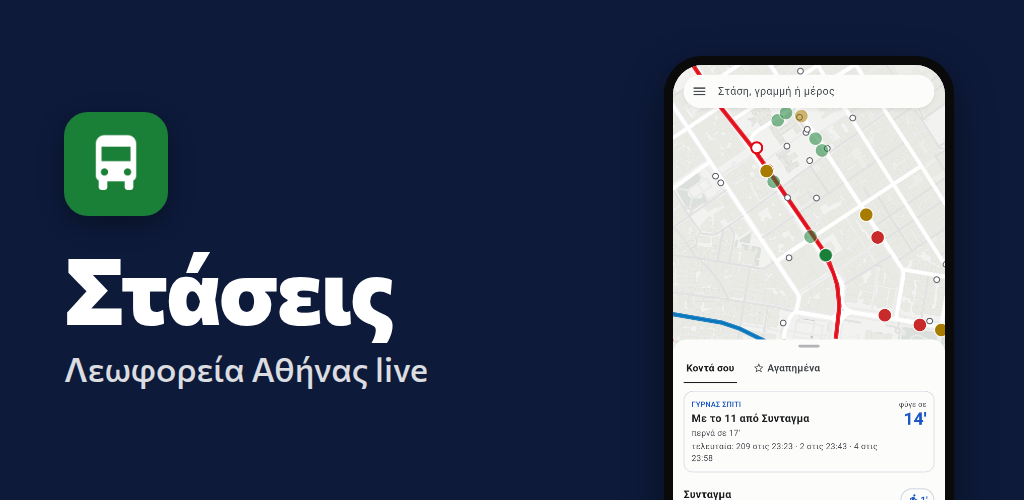
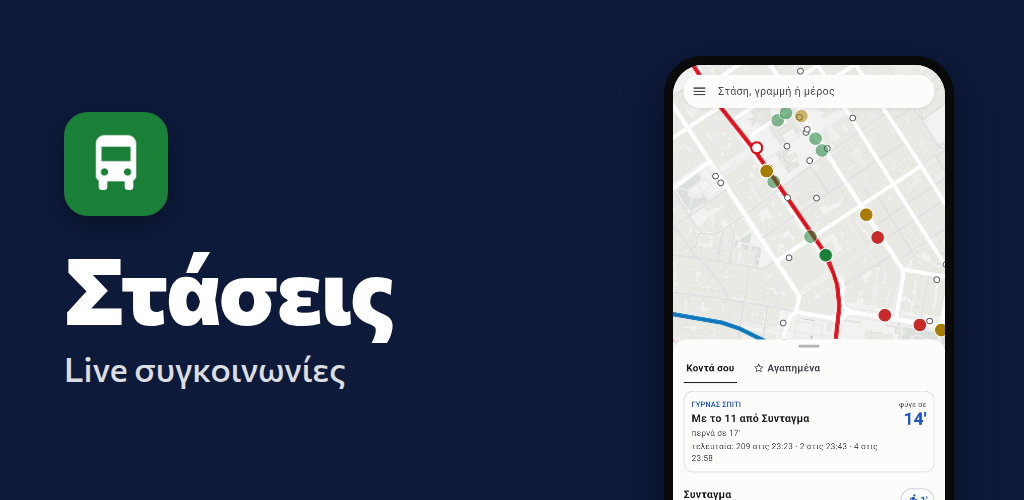
Store: new name «Στάσεις: Live Συγκοινωνίες», video link, SUBMISSION.md with full GitHub links

Changed region(s): [[0.0625, 0.72, 0.4375, 0.78]]

diff --git a/docs/store/graphics/feature.html b/docs/store/graphics/feature.html
@@ -11,5 +11,5 @@ p{font-weight:500;font-size:34px;line-height:1.2;margin-top:14px;opacity:.85}
 .phone div{width:100%;height:100%;border-radius:30px 30px 0 0;overflow:hidden;background:#fafafa}
 .phone img{width:100%;display:block}
 </style></head><body><div class="wrap">
-<img class="ic" src="icon-src.png"><h1>Στάσεις</h1><p>Λεωφορεία Αθήνας live</p>
+<img class="ic" src="icon-src.png"><h1>Στάσεις</h1><p>Live συγκοινωνίες</p>
 <div class="phone"><div><img src="home-src.png"></div></div></div></body></html>

diff --git a/docs/store/SUBMISSION.md b/docs/store/SUBMISSION.md
@@ -1,92 +1,94 @@
-# Στάσεις · Πακέτο για τα stores (για τον φίλο που ανεβάζει)
+# Στάσεις · Πακέτο για τα stores
 
-Ενημερώθηκε 2026-11-14 · έκδοση 0.3.0+9 · bundle ID / applicationId `gr.staseis.app` (και στα δύο stores)
+Ενημερώθηκε 2026-11-14 · έκδοση 0.3.0+9 · bundle ID / applicationId `gr.staseis.app` (Play και App Store)
 
-Όλα τα αρχεία είναι στο δημόσιο repo. Βάση για τα links:
-`https://github.com/angelospk/athens-transit-app/blob/main/`. Στον πίνακα το βάζω ως `repo:`.
+Αυτό είναι το κεντρικό έγγραφο. Κάθε αρχείο έχει πλήρες link GitHub, ώστε να το ανοίξει άνθρωπος ή agent.
+Αυτό το έγγραφο: https://github.com/angelospk/athens-transit-app/blob/main/docs/store/SUBMISSION.md
 
-## 1. Στοιχεία επικοινωνίας: τι να βάλεις
+## 1. Στοιχεία για τα forms
 
-Το email και το τηλέφωνο **δεν** είναι σε αυτό το δημόσιο repo. Ο Άγγελος τα στέλνει ιδιωτικά
-(αρχείο `~/staseis-store/CONTACT.md`, μαζί με το `.aab`).
-
-| Πεδίο | Τιμή | Πού |
-|---|---|---|
-| Όνομα εφαρμογής | Στάσεις | Play + App Store |
-| Website | https://staseis.gr | Play (Website), App Store (Marketing URL) |
-| Support URL | https://staseis.gr/support/ | App Store (υποχρεωτικό) |
-| Privacy policy URL | https://staseis.gr/privacy/ (200, ελέγχθηκε 2026-11-14) | Play + App Store |
-| Email επικοινωνίας | στο ιδιωτικό `CONTACT.md` (§4) | Play (Developer contact + Store listing), App Store (Review contact) |
-| Τηλέφωνο | στο ιδιωτικό `CONTACT.md` (§4) | Play (επαλήθευση λογαριασμού), App Store (Review contact, ιδιωτικό) |
-| Εκδότης / Copyright | Άγγελος Παπαμιχαήλ · © 2026 Άγγελος Παπαμιχαήλ | App Store |
-| Τιμή | Δωρεάν, χωρίς αγορές μέσα στην εφαρμογή, χωρίς διαφημίσεις | και τα δύο |
-| Χώρες | Ελλάδα (ή όλες) | και τα δύο |
+| Πεδίο | Τιμή |
+|---|---|
+| Όνομα εφαρμογής (Play και App Store) | Στάσεις: Live Συγκοινωνίες (26 χαρακτήρες) |
+| Όνομα EN | Staseis: Live Transit |
+| Εκδότης / Copyright | Άγγελος Παπαμιχαήλ · © 2026 Άγγελος Παπαμιχαήλ |
+| Website / Marketing URL | https://staseis.gr |
+| Support URL | https://staseis.gr/support/ |
+| Privacy policy URL | https://staseis.gr/privacy/ |
+| Email, τηλέφωνο | ΔΕΝ είναι στο δημόσιο repo. Βλ. §4: ιδιωτικό αρχείο `CONTACT.md` |
+| Τιμή | Δωρεάν, χωρίς αγορές μέσα στην εφαρμογή, χωρίς διαφημίσεις |
+| Χώρες | Ελλάδα (ή όλες) |
+| Πόλεις στην εφαρμογή | Αθήνα, Θεσσαλονίκη |
 
 Σημειώσεις:
 
-- **Email**: η Google δείχνει το email της σελίδας δημόσια. Προτείνω ξεχωριστή διεύθυνση στο
-  `staseis.gr` (π.χ. Cloudflare Email Routing, δωρεάν, προωθεί στο κανονικό email) αντί για προσωπικό.
+- **Email**: η Google το δείχνει δημόσια στη σελίδα της εφαρμογής. Μπορεί να είναι ξεχωριστή διεύθυνση στο
+  `staseis.gr` (Cloudflare Email Routing).
 - **Τηλέφωνο**: ζητείται για επαλήθευση και για επαφή του review. Σε δωρεάν εφαρμογή χωρίς εμπορική
-  δραστηριότητα επίλεξε **non-trader** στο EU/DSA (Play και App Store). Έτσι δεν δημοσιεύονται
-  διεύθυνση και τηλέφωνο. Έλεγξε τη δήλωση στο Console, γιατί τα πεδία αλλάζουν.
-- **Εκδότης**: ο Άγγελος Παπαμιχαήλ (όπως στην πολιτική απορρήτου). Στο store θα φαίνεται το όνομα
-  του λογαριασμού που ανεβάζει. Αν είναι του φίλου, το «Developer name» θα είναι το δικό του, και η
-  πολιτική πρέπει να το λέει.
+  δραστηριότητα επίλεξε **non-trader** (EU/DSA). Έτσι δεν δημοσιεύονται διεύθυνση και τηλέφωνο. Έλεγξε τη
+  δήλωση στο Console, γιατί τα πεδία αλλάζουν.
+- **Εκδότης**: ο Άγγελος Παπαμιχαήλ, όπως στην πολιτική απορρήτου. Αν ανεβάζει ο φίλος με δικό του λογαριασμό,
+  το «Developer name» θα είναι το δικό του, και η πολιτική πρέπει να το λέει.
 
-## 2. Κείμενα και δηλώσεις (links)
+## 2. Κείμενα και δηλώσεις
 
 | Τι | Link |
 |---|---|
-| Τίτλοι, περιγραφές, keywords, κατηγορίες (EL + EN, Play + App Store) | repo: `docs/store/listing.md` |
-| Data safety, App Privacy, foreground service, review notes, ratings | repo: `docs/store/declarations.md` |
-| Πολιτική απορρήτου (EL + EN), ίδια με τη ζωντανή | repo: `docs/store/privacy-policy.md` · live: https://staseis.gr/privacy/ |
-| iOS privacy manifest | repo: `ios/Runner/PrivacyInfo.xcprivacy` |
-| Βήματα δημοσίευσης, Shorebird | repo: `docs/store/README.md` |
+| Τίτλοι, περιγραφές, keywords, κατηγορίες (EL + EN, Play + App Store) | https://github.com/angelospk/athens-transit-app/blob/main/docs/store/listing.md |
+| Data safety, App Privacy, foreground service, review notes, ratings, λογαριασμοί | https://github.com/angelospk/athens-transit-app/blob/main/docs/store/declarations.md |
+| Πολιτική απορρήτου (EL + EN) | https://github.com/angelospk/athens-transit-app/blob/main/docs/store/privacy-policy.md · live: https://staseis.gr/privacy/ |
+| iOS privacy manifest | https://github.com/angelospk/athens-transit-app/blob/main/ios/Runner/PrivacyInfo.xcprivacy |
+| Βήματα δημοσίευσης Android και iOS, Shorebird | https://github.com/angelospk/athens-transit-app/blob/main/docs/store/README.md |
 
 Γρήγορα, χωρίς να ανοίξεις το `listing.md`:
 
-- **Play**: τίτλος «Στάσεις: Λεωφορεία Αθήνας live» · κατηγορία Maps & Navigation · tags Public transit,
-  Navigation.
-- **App Store**: όνομα «Στάσεις: Λεωφορεία Αθήνας live» · υπότιτλος «Αφίξεις live και ειδοποιήσεις» ·
-  κατηγορία Navigation, δευτερεύουσα Travel · Age rating 4+.
+- **Play**: κατηγορία Maps & Navigation · tags Public transit, Navigation.
+- **App Store**: υπότιτλος «Αφίξεις live και ειδοποιήσεις» · κατηγορία Navigation, δευτερεύουσα Travel · Age
+  rating 4+.
 - **Content rating**: IARC όλα «Όχι» → PEGI 3. **Ads**: Όχι. **Target audience**: 18+.
 - **Export compliance**: μόνο HTTPS, `ITSAppUsesNonExemptEncryption = false` (ήδη στο `Info.plist`).
 - **Review notes (App Store, αντιγραφή)**:
-  > Staseis shows live public transport in Athens, Greece. Outside Athens the map still works: pan to
-  > Athens, or use the search to open "Σύνταγμα" (Syntagma), then tap any stop to see live arrivals. No
-  > login is needed. Alerts: open a stop, tap a line, choose "Ειδοποίησέ με" (notify me). The app is
-  > unofficial and uses public data from OASA, STASY and Hellenic Train.
+  > Staseis shows live public transport in Athens and Thessaloniki, Greece. Outside Greece the map still
+  > works: pan to Athens, or use the search to open "Σύνταγμα" (Syntagma), then tap any stop to see live
+  > arrivals. No login is needed. Alerts (Athens): open a stop, tap a line, choose "Ειδοποίησέ με" (notify
+  > me). The app is unofficial and uses public data from OASA, OASTH, STASY and Hellenic Train.
 - **Δεν χρειάζεται demo λογαριασμός**: η εφαρμογή δεν έχει login.
 
 ## 3. Γραφικά
 
-Όλα 8-bit PNG. Φάκελοι στο GitHub:
+Όλα 8-bit PNG.
 
 | Τι | Μέγεθος | Link |
 |---|---|---|
-| Play screenshots, Ελληνικά (5) | 1080×2160 | repo: `docs/store/screenshots/play/el/` (01-05.png) |
-| Play screenshots, English (5) | 1080×2160 | repo: `docs/store/screenshots/play/en/` |
-| iPhone 6.9" screenshots, Ελληνικά (4) | 1320×2868 | repo: `docs/store/screenshots/ios/el/` (01-04.png) |
-| iPhone 6.9" screenshots, English (4) | 1320×2868 | repo: `docs/store/screenshots/ios/en/` |
-| Εικονίδιο 1024×1024 (App Store) | 1024×1024 | repo: `ios/Runner/Assets.xcassets/AppIcon.appiconset/Icon-App-1024x1024@1x.png` |
-| Πηγή και ξαναδημιουργία | | repo: `docs/store/screenshots/src/` (`render.sh`, `slides.html`) |
+| Play screenshots, Ελληνικά (5: 01-05.png) | 1080×2160 | https://github.com/angelospk/athens-transit-app/tree/main/docs/store/screenshots/play/el |
+| Play screenshots, English (5) | 1080×2160 | https://github.com/angelospk/athens-transit-app/tree/main/docs/store/screenshots/play/en |
+| iPhone 6.9" screenshots, Ελληνικά (4: 01-04.png) | 1320×2868 | https://github.com/angelospk/athens-transit-app/tree/main/docs/store/screenshots/ios/el |
+| iPhone 6.9" screenshots, English (4) | 1320×2868 | https://github.com/angelospk/athens-transit-app/tree/main/docs/store/screenshots/ios/en |
+| Play εικονίδιο | 512×512 | https://raw.githubusercontent.com/angelospk/athens-transit-app/main/docs/store/graphics/icon-512.png |
+| Play feature graphic | 1024×500 | https://raw.githubusercontent.com/angelospk/athens-transit-app/main/docs/store/graphics/feature-graphic-1024x500.png |
+| App Store εικονίδιο | 1024×1024 | https://raw.githubusercontent.com/angelospk/athens-transit-app/main/ios/Runner/Assets.xcassets/AppIcon.appiconset/Icon-App-1024x1024%401x.png |
+| Πηγή screenshots (`render.sh`, `slides.html`) | | https://github.com/angelospk/athens-transit-app/tree/main/docs/store/screenshots/src |
+| Πηγή γραφικών Play (`feature.html`) | | https://github.com/angelospk/athens-transit-app/tree/main/docs/store/graphics |
 
-Raw (κατεβάζονται απευθείας), π.χ.:
-`https://raw.githubusercontent.com/angelospk/athens-transit-app/main/docs/store/screenshots/play/el/01.png`
+Direct download ενός screenshot, π.χ.:
+https://raw.githubusercontent.com/angelospk/athens-transit-app/main/docs/store/screenshots/play/el/01.png
 
 Καρέ (Play): 01 χάρτης live · 02 στάση και αφίξεις · 03 ειδοποίηση πριν έρθει · 04 «Ακόμα και κλειστή» ·
-05 διαδρομή. Το iOS set δεν έχει το 04 (στο iOS δεν τρέχει live κάρτα στο παρασκήνιο).
+05 διαδρομή. Το iOS set δεν έχει το 04 (στο iOS δεν τρέχει live κάρτα στο παρασκήνιο). Τα καρέ δείχνουν
+την Αθήνα.
 
-Γραφικά Play (φάκελος `docs/store/graphics/`): εικονίδιο `icon-512.png` (512×512), feature graphic `feature-graphic-1024x500.png`. Πηγή: `feature.html`.
+## 4. Αρχεία και links εκτός GitHub
 
-## 4. Αρχεία που δεν είναι στο GitHub
-
-| Τι | Πού είναι | Πώς φτάνει σε σένα |
+| Τι | Πού | Πώς φτάνει σε σένα |
 |---|---|---|
-| Υπογεγραμμένο `app-release.aab` (v0.3.0+9, 73 MB) | mini PC `~/staseis-store/app-release.aab` | ο Άγγελος το στέλνει (Drive / AirDrop). Δεν μπαίνει στο git: έχει υπογραφή. |
-| Βίντεο foreground service (55 s) | mini PC `~/staseis-store/staseis-fgs-demo.mp4` | ο Άγγελος το ανεβάζει unlisted στο YouTube και δίνει το link για το Play Console |
-| Στοιχεία επικοινωνίας (email, τηλέφωνο) | mini PC `~/staseis-store/CONTACT.md` | ο Άγγελος τα στέλνει ιδιωτικά, όχι από το GitHub |
-| iOS build | χτίζεται από Mac (`flutter build ipa`) | με το team του φίλου στο Xcode (`docs/store/README.md` → iOS) |
+| Βίντεο foreground service (55 s) | https://youtube.com/shorts/0Y5P6Zeynyg | Το link μπαίνει στο Play Console → App content → Foreground service |
+| Υπογεγραμμένο `app-release.aab` (v0.3.0+9, 73 MB, χτίστηκε 2026-11-14 από το `main`) | mini PC `~/staseis-store/app-release.aab` | Ο Άγγελος το δίνει (βλ. «Παράδοση» παρακάτω). Δεν μπαίνει στο git. |
+| Στοιχεία επικοινωνίας (email, τηλέφωνο) | mini PC `~/staseis-store/CONTACT.md` | Ο Άγγελος τα δίνει ιδιωτικά, όχι από το GitHub |
+| iOS build | χτίζεται από Mac (`flutter build ipa`) | με το team του φίλου στο Xcode (βλ. https://github.com/angelospk/athens-transit-app/blob/main/docs/store/README.md) |
+
+Παράδοση του `.aab`: ο Άγγελος το ανεβάζει ο ίδιος στο Play Console (Internal testing → Create release), αν
+ο φίλος τον προσθέσει στο Console. Αλλιώς το στέλνει στον φίλο (Drive, WeTransfer, AirDrop) και ο φίλος το
+ανεβάζει.
 
 Το upload key του Android είναι μόνο στο mini PC του Άγγελου. Το Play App Signing κρατά το κλειδί
 υπογραφής. Το keystore **δεν** στέλνεται σε κανέναν.
@@ -95,18 +97,19 @@ Raw (κατεβάζονται απευθείας), π.χ.:
 
 1. **Πρόσβαση** του Άγγελου στο Play Console (Admin ή Release manager) και στο App Store Connect
    (App Manager), και στο developer team για το Xcode.
-2. **Βίντεο** foreground service: unlisted στο YouTube, το link στο Play Console (§4).
-3. **Δοκιμή σε κινητό** (`docs/TEST-CHECKLIST.md` #2, #17) και σε iPhone με κλειδωμένη οθόνη (καρέ 03).
-4. **Play, λογαριασμός προσωπικός μετά τις 13/11/2023**: closed test με 12 testers για 14 μέρες πριν το
+2. **Play, λογαριασμός προσωπικός μετά τις 13/11/2023**: closed test με 12 testers για 14 μέρες πριν το
    production.
+3. **iOS**: build από Mac, και δοκιμή σε iPhone με κλειδωμένη οθόνη για το καρέ 03.
+4. Δοκιμή σε κινητό (https://github.com/angelospk/athens-transit-app/blob/main/docs/TEST-CHECKLIST.md #2, #17):
+   αποφασίστηκε 2026-11-14 να μη γίνει πριν το release.
 
-Έλεγχος ονόματος (2026-11-14): κανένα ίδιο «Στάσεις» ή «Staseis» εφαρμογής συγκοινωνιών στο App Store GR
-ή στο Play. Ανταγωνιστές με παρόμοιο θέμα: Busmate (Athens Bus & Metro), BusMakro. Το gr.staseis.app δεν
-υπάρχει ακόμα στο Play (404). Ο τίτλος «Στάσεις: Λεωφορεία Αθήνας live» κάνει το όνομα ξεχωριστό.
+Έλεγχος ονόματος (2026-11-14): κανένα ίδιο «Στάσεις» ή «Staseis» στο App Store GR ή στο Play. Ανταγωνιστές
+με παρόμοιο θέμα: Busmate (Athens Bus & Metro), BusMakro. Το `gr.staseis.app` δεν υπάρχει ακόμα στο Play.
 
 ## 6. Γνωστοί κίνδυνοι στο review
 
 - Η Google μπορεί να θεωρήσει ότι το polling αφίξεων δεν είναι `dataSync`. Αν το απορρίψει, χρειάζεται νέα
-  έκδοση με `shortService` ή `specialUse` (`declarations.md`).
+  έκδοση με `shortService` ή `specialUse`
+  (https://github.com/angelospk/athens-transit-app/blob/main/docs/store/declarations.md).
 - Η Apple μπορεί να κόψει το «ΟΑΣΑ» από τα keywords (guideline 2.3.7). Αν απορριφθεί, σβήστο.
 - Ένας reviewer στις ΗΠΑ βλέπει άδειο χάρτη στη θέση του. Τα review notes λένε πώς να πάει στην Αθήνα.

diff --git a/docs/store/listing.md b/docs/store/listing.md
@@ -1,22 +1,23 @@
 # Κείμενα για τα stores
 
-Όρια χαρακτήρων στις παρενθέσεις. Όνομα: **Στάσεις** (staseis.gr). Δεν δένεται με πόλη, γιατί θα μπουν κι άλλες πόλεις. Όσο υπάρχει
-μόνο η Αθήνα, ο τίτλος λέει «Αθήνας» για την αναζήτηση· με τη δεύτερη πόλη γίνεται «Στάσεις:
-Λεωφορεία live». Πριν το ανέβασμα: ψάξε «Στάσεις» στα δύο stores για εφαρμογή με ίδιο όνομα.
+Όρια χαρακτήρων στις παρενθέσεις. Όνομα: **Στάσεις** (staseis.gr). Ο τίτλος δεν δένεται με πόλη: η
+εφαρμογή έχει Αθήνα και Θεσσαλονίκη και θα μπουν κι άλλες πόλεις (απόφαση 2026-11-14). Έλεγχος ονόματος
+στα δύο stores: έγινε 2026-11-14, δεν υπάρχει ίδιο όνομα.
 
 ## Google Play
 
-**Τίτλος (30)**: Στάσεις: Λεωφορεία Αθήνας live
+**Τίτλος (30)**: Στάσεις: Live Συγκοινωνίες
 
-**Σύντομη περιγραφή (80)**: Λεωφορεία της Αθήνας live, αφίξεις στη στάση σου και ειδοποιήσεις πριν έρθει.
+**Σύντομη περιγραφή (80)**: Live αφίξεις λεωφορείων και συγκοινωνιών, και ειδοποίηση πριν έρθει το δικό σου.
 
 **Πλήρης περιγραφή (4000)**:
 
 Δες πού είναι το λεωφορείο σου τώρα, πόσο απέχει από τη στάση σου, και πότε πρέπει να φύγεις.
+Αθήνα και Θεσσαλονίκη. Μετρό, διαδρομές και ειδοποιήσεις: μόνο στην Αθήνα, προς το παρόν.
 
 ΧΑΡΤΗΣ LIVE
-• Όλα τα λεωφορεία της Αθήνας στον χάρτη, με χρώμα ανάλογα με την καθυστέρηση
-• Σταθμοί μετρό, τραμ και προαστιακού με τα επόμενα δρομολόγια
+• Όλα τα λεωφορεία της Αθήνας και της Θεσσαλονίκης στον χάρτη, με χρώμα ανάλογα με την καθυστέρηση
+• Αθήνα: σταθμοί μετρό, τραμ και προαστιακού με τα επόμενα δρομολόγια
 
 ΣΤΑΣΕΙΣ ΚΑΙ ΓΡΑΜΜΕΣ
 • Επόμενες αφίξεις live, και τα δρομολόγια που δεν ξεκίνησαν ακόμα από το πρόγραμμα
@@ -40,22 +41,22 @@
 ΑΠΟΡΡΗΤΟ
 Χωρίς λογαριασμό, χωρίς διαφημίσεις, χωρίς tracking. Η θέση σου μένει στο κινητό.
 
-Ανεπίσημη εφαρμογή. Δεν έχει σχέση με τον ΟΑΣΑ, τη ΣΤΑΣΥ ή την Hellenic Train. Τα δεδομένα έρχονται
+Ανεπίσημη εφαρμογή. Δεν έχει σχέση με τον ΟΑΣΑ, τον ΟΑΣΘ, τη ΣΤΑΣΥ ή την Hellenic Train. Τα δεδομένα έρχονται
 από τις δημόσιες πηγές τους.
 
 **Κατηγορία**: Maps & Navigation · **Tags**: Public transit, Navigation
 
 ## App Store
 
-**Όνομα (30)**: Στάσεις: Λεωφορεία Αθήνας live
+**Όνομα (30)**: Στάσεις: Live Συγκοινωνίες
 **Υπότιτλος (30)**: Αφίξεις live και ειδοποιήσεις
-**Λέξεις-κλειδιά (100)**: λεωφορείο,ΟΑΣΑ,αφίξεις,μετρό,τραμ,προαστιακός,Αθήνα,συγκοινωνίες,staseis,bus,athens
+**Λέξεις-κλειδιά (100)**: λεωφορείο,ΟΑΣΑ,αφίξεις,μετρό,τραμ,Αθήνα,Θεσσαλονίκη,συγκοινωνίες,στάσεις,bus,live
 
 > «ΟΑΣΑ» στα keywords: η Apple μπορεί να το θεωρήσει χρήση εμπορικού σήματος (guideline 2.3.7). Αν
 > απορριφθεί, σβήσε το.
 
-**Promotional text (170)**: Όλα τα λεωφορεία της Αθήνας live, αφίξεις στη στάση σου και ειδοποιήσεις
-πριν έρθει το λεωφορείο. Χωρίς λογαριασμό, χωρίς διαφημίσεις.
+**Promotional text (170)**: Λεωφορεία Αθήνας και Θεσσαλονίκης live, αφίξεις στη στάση σου και
+ειδοποιήσεις πριν έρθει το λεωφορείο. Χωρίς λογαριασμό, χωρίς διαφημίσεις.
 
 **Περιγραφή**: η ίδια με το Play, χωρίς την ενότητα «Widgets» (κρυφή στο iOS).
 **Κατηγορία**: Navigation · δευτερεύουσα Travel · **Age rating**: 4+
@@ -64,20 +65,21 @@
 
 The app interface is in Greek. The English page says so, so that visitors are not surprised.
 
-**Title / App Store name (30)**: Staseis: Athens Bus Live
+**Title / App Store name (30)**: Staseis: Live Transit
 **App Store subtitle (30)**: Live arrivals and bus alerts
 **Keywords (100)**: athens,bus,transit,metro,tram,oasa,greece,arrivals,timetable,public transport
-**Short description (80)**: Live Athens buses, arrivals at your stop and alerts before your bus arrives.
-**Promotional text (170)**: Every Athens bus, live. Arrivals at your stop and an alert a few minutes
-before your bus comes. No account, no ads.
+**Short description (80)**: Live bus and transit arrivals, plus an alert before your bus comes.
+**Promotional text (170)**: Live buses in Athens and Thessaloniki. Arrivals at your stop and an alert a
+few minutes before your bus comes. No account, no ads.
 
 **Description**:
 
 See where your bus is right now, how far it is from your stop, and when to leave.
+Athens and Thessaloniki. Metro, trip planner and alerts: Athens only, for now.
 
 LIVE MAP
-• Every Athens bus on the map, coloured by delay
-• Metro, tram and suburban rail stations with their next trains
+• Every Athens and Thessaloniki bus on the map, coloured by delay
+• Athens: metro, tram and suburban rail stations with their next trains
 
 STOPS AND LINES
 • Live arrivals, plus the runs that have not started yet from the timetable
@@ -101,7 +103,7 @@ FAVOURITES AND WIDGETS
 PRIVACY
 No account, no ads, no tracking. Your location stays on your phone.
 
-Interface in Greek for now; English is coming. Unofficial app, not affiliated with OASA, STASY or
+Interface in Greek for now; English is coming. Unofficial app, not affiliated with OASA, OASTH, STASY or
 Hellenic Train. Data comes from their public sources.
 
 ## Γραφικά που λείπουν

diff --git a/docs/store/declarations.md b/docs/store/declarations.md
@@ -27,8 +27,8 @@
 
 ## Google Play · Foreground service (Play Console → App content)
 
-Η εφαρμογή ξεκινά foreground service μόνο όταν ο χρήστης ορίζει ειδοποίηση. Χρειάζεται βίντεο
-(30-60 s, unlisted YouTube) που δείχνει: στάση → «Ειδοποίησέ με» → η μόνιμη ειδοποίηση εμφανίζεται →
+Η εφαρμογή ξεκινά foreground service μόνο όταν ο χρήστης ορίζει ειδοποίηση. Βίντεο (55 s, YouTube):
+https://youtube.com/shorts/0Y5P6Zeynyg . Δείχνει: στάση → «Ειδοποίησέ με» → η μόνιμη ειδοποίηση εμφανίζεται →
 κλείσιμο εφαρμογής → η ειδοποίηση «έρχεται σε 5′».
 
 **dataSync**:

diff --git a/docs/store/README.md b/docs/store/README.md
@@ -4,7 +4,7 @@
 
 - `privacy-policy.md`: πολιτική απορρήτου (EL + EN). Συμπλήρωσε τα `<...>` και ανέβασέ τη σε δημόσιο
   URL (π.χ. `staseis.gr/privacy`). Το URL μπαίνει και στα δύο stores.
-- `SUBMISSION.md`: ένα έγγραφο για τον φίλο που ανεβάζει: στοιχεία επικοινωνίας, links σε όλα, τι λείπει.
+- `SUBMISSION.md`: το κεντρικό έγγραφο, με links GitHub σε όλα: https://github.com/angelospk/athens-transit-app/blob/main/docs/store/SUBMISSION.md
 - `listing.md`: τίτλοι, περιγραφές, keywords, γραφικά που λείπουν.
 - `declarations.md`: Data safety, foreground service, App Privacy, review notes, λογαριασμός.
 
